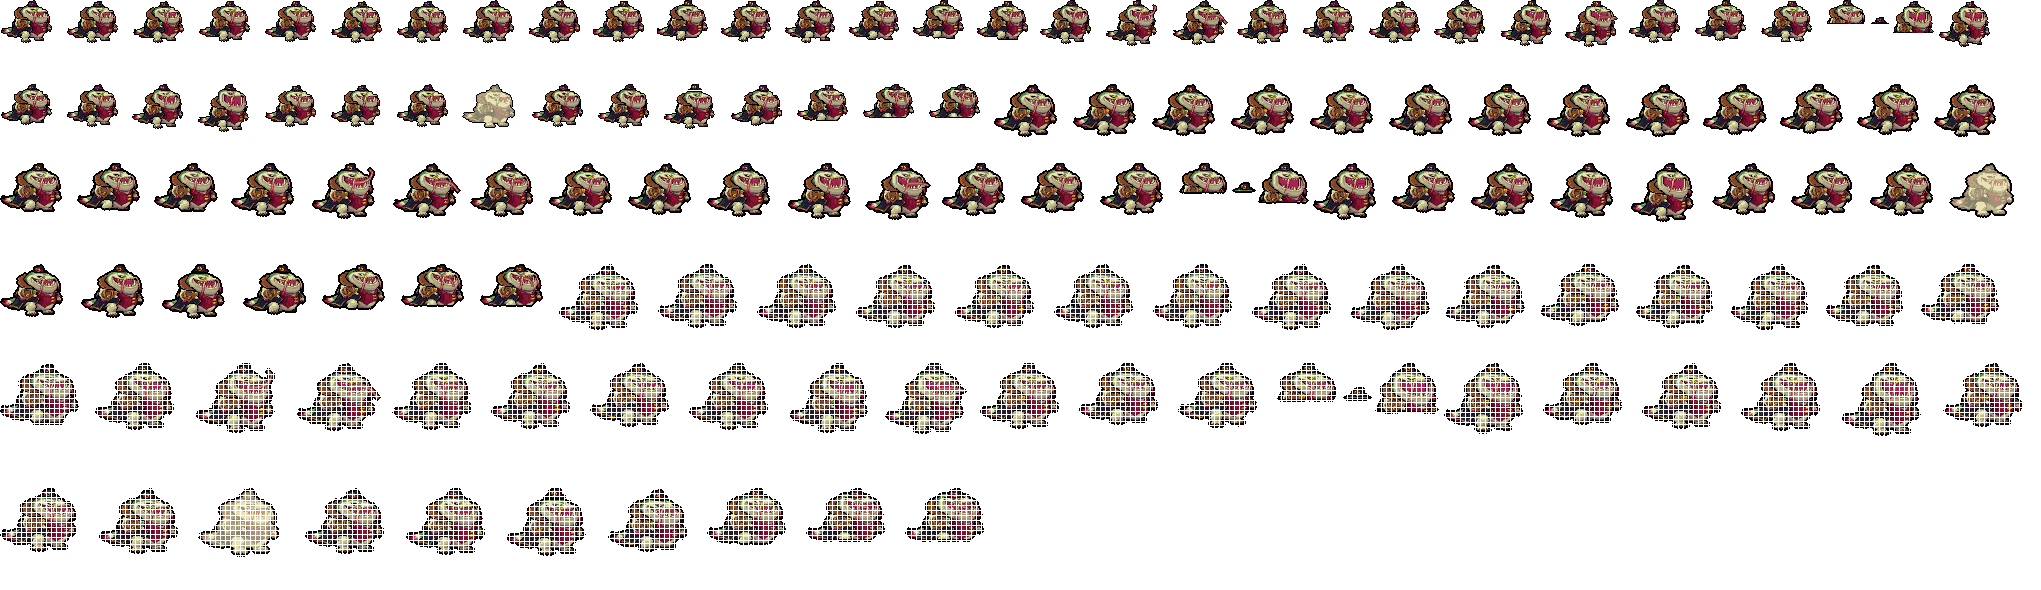
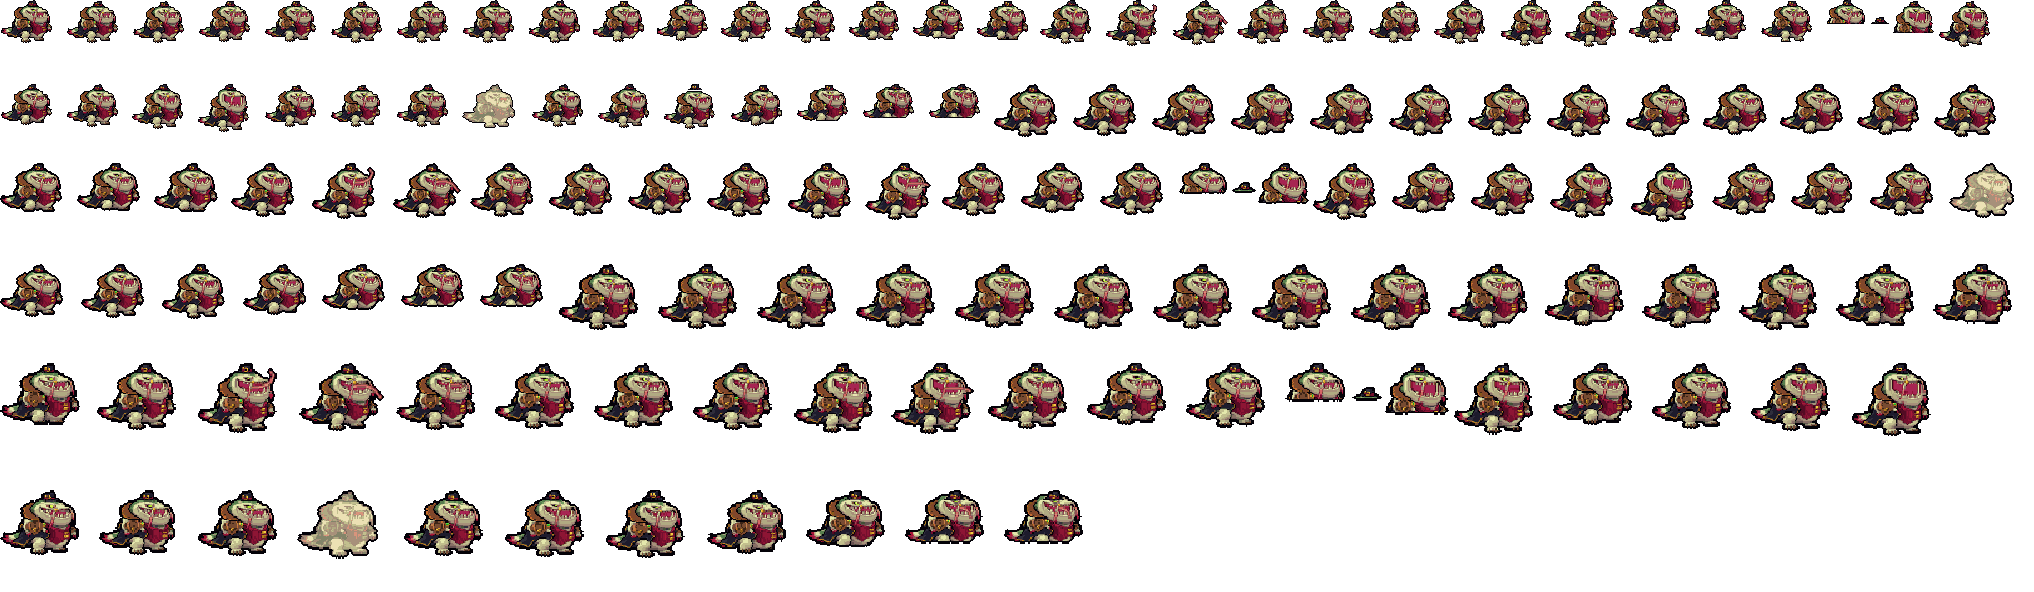
BP frames: grow lo_ frames by nearest sampling when the hero is coarser than UI_PPU (no grid lines on Tahm Kench / Malzahar)
pixel_down.pixelate averages squares of 1/k pixels; for k > 1 some squares hold no pixel centre, so every few rows and
columns of the lo_ frames came out clear (the user: 「BP界面这塔姆怎么回事？全是网格」, 「马尔扎哈也一起改了」).
Battlefield and 1x frames unchanged.

diff --git a/tools/art/ppu_hd.py b/tools/art/ppu_hd.py
@@ -415,6 +415,24 @@ def lo_size(w1, h1):
     return round(w1 * UI_PPU), round(h1 * UI_PPU)
 
 
+def grow(a, k, pivot):
+    """`a` brought to k times as many pixels a side (k > 1) on a grid through the pivot, each new pixel the dense pixel
+    under its centre (nearest). pixel_down.pixelate averages squares of 1/k pixels: for k > 1 a square can hold no pixel
+    centre, so every few rows and columns came out clear - the grid of lines over Malzahar, Kalista and Tahm Kench on
+    the BP cards (the user, 2026-10-16: 「BP界面这塔姆怎么回事？全是网格」). -> (frame, new pivot)."""
+    H, W = a.shape[:2]
+    c = 1.0 / k
+    px, py = pivot
+    nx0, ny0 = int(np.ceil(px / c)), int(np.ceil(py / c))
+    nx1, ny1 = int(np.ceil((W - px) / c)), int(np.ceil((H - py) / c))
+    sx = np.floor(px + (np.arange(nx0 + nx1) - nx0 + 0.5) * c).astype(int)
+    sy = np.floor(py + (np.arange(ny0 + ny1) - ny0 + 0.5) * c).astype(int)
+    out = np.zeros((ny0 + ny1, nx0 + nx1, 4), np.uint8)
+    okx, oky = (sx >= 0) & (sx < W), (sy >= 0) & (sy < H)
+    out[np.ix_(oky, okx)] = a[np.ix_(sy[oky], sx[okx])]
+    return out, (nx0, ny0)
+
+
 def add_lo(hero, sheet):
     """lo_<tag> for every tag: its hd_ frames brought to UI_PPU squares a displayed game pixel (tools/art/pixel_down.py;
     the hero's SIZES size counted in), each on a frame of round(UI_PPU x the 1x size) - grown alike at both ends where
@@ -426,7 +444,11 @@ def add_lo(hero, sheet):
         out = []
         for (one, ms), (b, _) in zip(sheet[tag], sheet[PREFIX + tag]):
             outline = D.edge_colour(b) if (b[..., 3] > 0).any() else (0, 0, 0)
-            lo, (px, py) = D.pixelate(b, UI_PPU * size / k, (b.shape[1] / 2, b.shape[0] / 2), outline)
+            f_ = UI_PPU * size / k
+            if f_ > 1:                                   # a hero drawn coarser than the BP frames: grown, not averaged
+                lo, (px, py) = grow(b, f_, (b.shape[1] / 2, b.shape[0] / 2))
+            else:
+                lo, (px, py) = D.pixelate(b, f_, (b.shape[1] / 2, b.shape[0] / 2), outline)
             W, H = lo_size(one.shape[1], one.shape[0])
             op = lo[..., 3] > 0
             if op.any():
